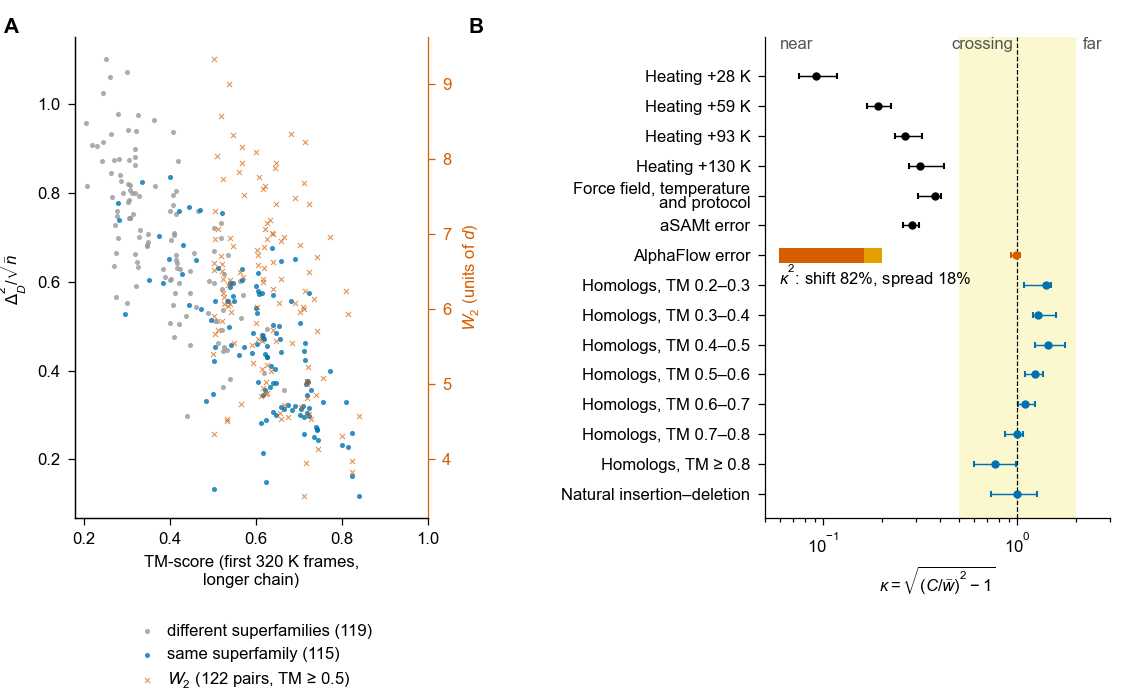
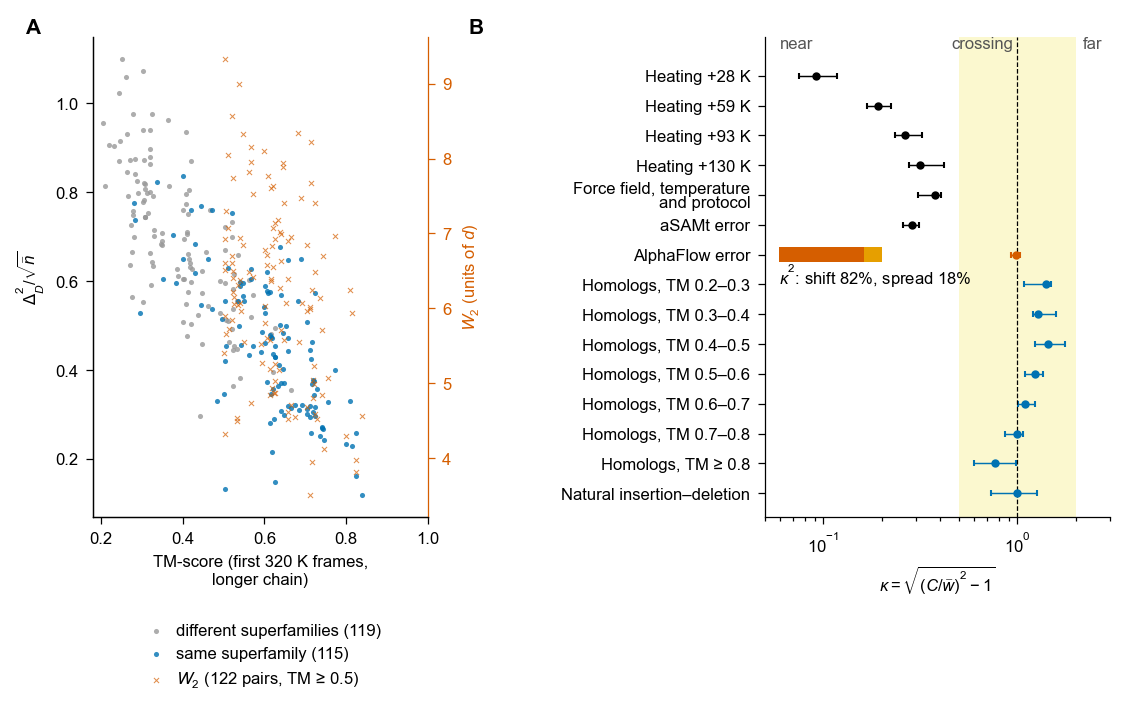
Fig 4 redrawn with more margin (y-label and legend touched the edge; values unchanged); S1 Table percentage intervals with % on both bounds; PROVENANCE, MANIFEST

diff --git a/code/make_s1.py b/code/make_s1.py
@@ -54,8 +54,8 @@ def added():
 L_DC, L_SC, L_D, L_BD = 'decision criterion', 'sanity check', 'descriptive', 'by definition'
 PRED = [  # record, analysis, prediction, label, outcome, where reported
  ('round17_chaining (18 Oct 00:20 UTC)', 'Chaining test, 150 two-domain chains', '1 − TM-score normalized by the shorter chain violates the triangle inequality in > 80% of part–whole triples; D_TM with fixed d₀ and D_TM/√L̄ near 0.', L_DC, 'Held: 100% vs 0% and 0%.', 'R2, Fig 2B'),
- ('round17_chaining', 'Chaining test', 'Average linkage merges different folds under 1 − TM-score (shorter chain) but mostly not under D_TM/√L̄; single linkage merges under both.', L_DC, 'Held: average linkage 100% vs 15% [10, 21]; single linkage merged under both (100% and 78%), as predicted.', 'R2, Fig 2B'),
- ('round29_review_math (18 Oct 08:40 UTC)', 'Chaining test, fixed d₀', 'D_TM/√L̄ with a d₀ common to each triple: no violations, average-linkage chaining as for the d₀(L̄) version (about 15%).', L_DC, 'Held: 0% and 15.3% [10.0, 21.3].', 'R2, Fig 2B'),
+ ('round17_chaining', 'Chaining test', 'Average linkage merges different folds under 1 − TM-score (shorter chain) but mostly not under D_TM/√L̄; single linkage merges under both.', L_DC, 'Held: average linkage 100% vs 15% [10%, 21%]; single linkage merged under both (100% and 78%), as predicted.', 'R2, Fig 2B'),
+ ('round29_review_math (18 Oct 08:40 UTC)', 'Chaining test, fixed d₀', 'D_TM/√L̄ with a d₀ common to each triple: no violations, average-linkage chaining as for the d₀(L̄) version (about 15%).', L_DC, 'Held: 0% and 15.3% [10.0%, 21.3%].', 'R2, Fig 2B'),
  ('round29_review_math', 'Chaining test, linear form', 'Linear 1 − S/L̄ violates the triangle inequality and chains more than the square-root form.', L_DC, 'Partly: violations 66.7% (held); chaining 9.3% (not held).', 'R2, Fig 2B'),
  ('round36 §0 (full text in record 19 Oct 14:56 UTC)', 'First session 0.0', 'Branch-and-bound and heuristic agree on test pairs.', L_SC, 'Passed (BnB 10/10).', 'S2 Text'),
  ('round36 §0', 'First session 0.1 (truncated chains)', 'Unshared part of full-versus-truncated minus full-versus-full comparisons equal to 0.75 Σ s² over the removed bonds within 2% in every domain, and median shared-part Δ²/√n within the replicate band.', L_DC, 'Not held (relative errors −6% to −107%; terminal flexibility).', 'S2 Text'),
@@ -77,7 +77,7 @@ PRED = [  # record, analysis, prediction, label, outcome, where reported
  ('round36 7b (full text in record 18 Oct 18:58 UTC)', 'Standard metrics on public AlphaFlow-MD samples, prediction 1', 'Energy distance calls every controlled perturbation far (≥ 95%).', L_DC, 'Not held: inflation 0.93, truncation 0.62 and 0.70 (others 0.99–1.00).', 'not discussed'),
  ('round36 7b', '7b, predictions 2 and 3', 'RMWD calls shrinkage and truncation far (≥ 70%); contact Jaccard calls mixing far (≥ 90%).', L_DC, 'Held: 0.81–0.99; 1.00.', 'not discussed'),
  ('round36 7c (full text in record 18 Oct 18:58 UTC)', 'Model error P2 (primary)', 'Heating zone in which the superfamily median of the aSAMt mean-shift error falls.', L_DC, 'Censored zone "≥ +59 K".', 'R6, Fig 5A'),
- ('round36 7c', 'Model error, secondary 1', 'Error above replicate noise in at least 70% of domains.', L_DC, 'Held narrowly: 72.7% (interval [61.5, 83.3] from an added check).', 'R6'),
+ ('round36 7c', 'Model error, secondary 1', 'Error above replicate noise in at least 70% of domains.', L_DC, 'Held narrowly: 72.7% (interval [61.5%, 83.3%] from an added check).', 'R6'),
  ('round36 7c; edit-distance version in round36_amend_P2_D2 (20 Oct 11:25 UTC)', 'Model error, secondaries 2 and 3', 'AlphaFlow mean shift exceeds the force-field threshold; position of the aSAMt error in the force-field bracket.', L_DC, 'Held (0.0843 > 0.0199); "outside the bracket" (p = −0.091).', 'not discussed'),
  ('round36 7c', 'Direction of the error (with round39 E5)', 'Cosine and profile correlation judged against ceiling and replicate null.', L_DC, 'Mean shift: different direction (0.25); profile: same direction at the highest temperature, different at 379 K.', 'R6, Fig 5B'),
  ('round36 7h (20 Oct 13:36 UTC)', 'Thermophile replication P1′-1', 'U2 (Q ≥ 0.70) one-sided 97.5% upper bound < 0.', L_DC, 'Held: −0.213 (upper bound −0.083).', 'R7, Fig 6'),
@@ -106,7 +106,7 @@ PRED = [  # record, analysis, prediction, label, outcome, where reported
  ('round41', 'g6 synthetic sequences', 'No violations for 1-Lipschitz gap costs (i)–(iii) (0 of 3,000 inequalities); violations expected for the controls (iv) 2|a| and (v) DTW, without refuting the lemma if absent.', L_DC, 'Held for (i)–(iii); the controls also had no violations under random edits.', 'S1 Fig (adversarial version)'),
  ('round41 g6_adv (21 Oct 09:25 UTC; added after g6)', 'g6 adversarial triples', '(i)–(iii) no violations; (iv) violations on generator A; (v) violations on generator B.', L_DC, 'Held: 0; 21.1% and 22.7%; 33.0% (65 undecided equalities in (iii) A).', 'R1, S1 Fig'),
  ('round42 (21 Oct 09:27 UTC)', 'Hinge-type test', 'Withdrawn before running (premise contradicted by a decomposition of explanatory variables).', '—', 'Withdrawn.', 'not discussed'),
- ('round43 (22 Oct 08:54 UTC)', 'Post hoc sensitivities s1, s3, s4', 's1: if a cell changes regime under length matching or Kendall τ < 0.9, show both versions; s3: if C-2 and its intersection gate hold for all four network models, C-2 is not tied to the parameters; s4: interval of secondary 1, verdict unchanged.', L_D, 's1: no regime changed in the 13 cells with size-matched units, τ = 0.91 over 12 (matched version in S2 Table); s3: effect in all four (C-2 0.18–0.19); s4: [61.5, 83.3], includes 0.70.', 'R4, R6, R8, S2 Table'),
+ ('round43 (22 Oct 08:54 UTC)', 'Post hoc sensitivities s1, s3, s4', 's1: if a cell changes regime under length matching or Kendall τ < 0.9, show both versions; s3: if C-2 and its intersection gate hold for all four network models, C-2 is not tied to the parameters; s4: interval of secondary 1, verdict unchanged.', L_D, 's1: no regime changed in the 13 cells with size-matched units, τ = 0.91 over 12 (matched version in S2 Table); s3: effect in all four (C-2 0.18–0.19); s4: [61.5%, 83.3%], includes 70%.', 'R4, R6, R8, S2 Table'),
  ('addendum (28 Oct 04:47 UTC)', 'r44_inv', 'Reduced/original ratio of superfamily medians in [0.9, 1.1] with 95% interval including 1, at +59 and +93 K, for 3 vs 5 replicates and 50 vs 100 frames.', L_DC, 'Replicate axis not met (+93 K 0.87 [0.45, 1.22]); frame axis met.', 'R3, Table 2'),
  ('addendum', 'r44_corr', 'P1: TM-align contains π̄ pairs more than sequence alignments; P2: TM-align C-1, C-2 lower bounds > 0; P3: sequence alignments lower bounds > 0 with C-1 below π̄.', L_DC, 'P1 held; P2 held; P3 not held (C-1 below π̄ held).', 'R8, Table 3'),
  ('addendum2 (28 Oct 05:56 UTC)', 'r44_gp', 'Effect remains without bonds next to Gly/Pro and with Gly/Pro fractions as covariates (lower bounds > 0, more than half of C-1).', L_DC, 'Held.', 'R8, Table 3'),
@@ -117,7 +117,7 @@ PRED = [  # record, analysis, prediction, label, outcome, where reported
  ('addendum4', 'r44_tmmean', 'Reading rule for the share of the C-1 difference recovered by aligning mean points.', L_D, 'Share 0.58: "both" (alignment method and structures aligned).', 'R8'),
  ('addendum5 (28 Oct 08:53 UTC)', 'r44_w2gap', 'PW1: partial Spearman(W₂, Δ²_D | w̄) ≥ 0.8; PW2: ρ(W₂, w̄) > ρ(Δ²_D, w̄).', L_DC, 'Held (0.95); held (0.73 > 0.13).', 'R4'),
  ('addendum5 (+fix1 08:59 UTC)', 'r44_p1comp', 'PC1: adjusted U2 upper bound < 0; PC2: |adjusted − primary| < 0.05.', L_DC, 'Held (−0.20, upper bound −0.11); held.', 'R7'),
- ('addendum6 (28 Oct 11:50 UTC)', 'r44_redsame', 'PR1: upper bound of the reduced computation\'s share of the compression < 0.1; PR2 (descriptive prediction): overestimate of d between ensembles at least the mean within-ensemble overestimate.', L_DC, 'PR1 not held: 4% [−6, 36]; PR2 not held: 6.7 × 10⁻⁴ between, 1.3 × 10⁻³ within.', 'R5'),
+ ('addendum6 (28 Oct 11:50 UTC)', 'r44_redsame', 'PR1: upper bound of the reduced computation\'s share of the compression < 0.1; PR2 (descriptive prediction): overestimate of d between ensembles at least the mean within-ensemble overestimate.', L_DC, 'PR1 not held: 4% [−6%, 36%]; PR2 not held: 6.7 × 10⁻⁴ between, 1.3 × 10⁻³ within.', 'R5'),
  ('addendum7 (28 Oct 15:39 UTC)', 'r45_f1', '(a) C-2 lower bound > 0 with bond-direction profiles → the association is present in bond-direction fluctuations after the network-model control; (b) C-2 lower bound ≤ 0 and paired difference (whole frame − bond direction) lower bound > 0 → much of it lies outside bond directions; (c) otherwise unresolved.', L_DC, '(a): C-2 0.168 [0.071, 0.269]; association not confined to rotations about the bond.', 'R8, Fig 7'),
  ('addendum8 (29 Oct 11:15 UTC)', 'r45_mpstart', 'Descriptive (no decision rule).', L_D, 'Six ensembles × nine starts: at most 8 × 10⁻¹¹ in d.', 'Methods'),
  ('addendum9 (29 Oct 16:34 UTC; fix1 17:19 UTC)', 'r46_align', 'For A, B0 and B2: C-1 and C-2 lower bounds > 0 → holds; C-1 only → partly.', L_DC, 'Holds for A, B0 and B2.', 'R8, S3 Table'),

diff --git a/code/make_figs.py b/code/make_figs.py
@@ -130,8 +130,8 @@ def fig4():
         if not D or any(D.get(k) is None for k in ('C', 'B_P', 'B_Q')): continue
         d2 = 2 * D['C'] - D['B_P'] - D['B_Q']; pts.append((b['TM'], d2 / np.sqrt(b['nbar']), b.get('W2'), b['Ha'] == b['Hb']))
     P = pd.DataFrame(pts, columns=['TM', 'd2n', 'W2', 'same'])
-    fig = plt.figure(figsize=(7.5, 4.6))
-    ax = axin(fig, 0.5, 1.15, 2.35, 3.2); panel(ax, 'A', x=-0.2, y=1.0)
+    fig = plt.figure(figsize=(7.5, 4.75))   # 4.6 → 4.75 and A moved right: the y-label and the legend touched the edge
+    ax = axin(fig, 0.62, 1.3, 2.23, 3.2); panel(ax, 'A', x=-0.2, y=1.0)
     for same, col, lab in [(False, OI['grey'], 'different superfamilies'), (True, OI['blue'], 'same superfamily')]:
         s = P[P.same == same]; ax.scatter(s.TM, s.d2n, s=6, color=col, lw=0, alpha=0.8, label=f'{lab} ({len(s)})')
     ax.set_xlabel('TM-score (first 320 K frames,\nlonger chain)'); ax.set_ylabel(r'$\Delta^2_D/\sqrt{\bar n}$'); ax.set_xlim(0.18, 1.0)
@@ -140,7 +140,7 @@ def fig4():
     h1, l1 = ax.get_legend_handles_labels(); h2, l2 = ax2.get_legend_handles_labels(); ax.legend(h1 + h2, l1 + l2, frameon=False, loc='upper center', bbox_to_anchor=(0.5, -0.19), handletextpad=0.2)
     # B: kappa per cell
     s1 = J('r43_sens.json')['s1']['cells']; order = [k for k in CELL_EN if k in s1]
-    ax = axin(fig, 5.1, 1.15, 2.3, 3.2); panel(ax, 'B', x=-0.86, y=1.0); y = np.arange(len(order))[::-1]; kap = {}
+    ax = axin(fig, 5.1, 1.3, 2.3, 3.2); panel(ax, 'B', x=-0.86, y=1.0); y = np.arange(len(order))[::-1]; kap = {}
     for yi, k in zip(y, order):
         e, lo, hi = ci(s1[k]['ratio']); kap[CELL_EN[k].replace('\n', ' ')] = (e, lo, hi)
         col = OI['red'] if 'AlphaFlow' in CELL_EN[k] else OI['blue'] if 'Homolog' in CELL_EN[k] or 'insertion' in CELL_EN[k] else OI['black']

diff --git a/docs/PROVENANCE.md b/docs/PROVENANCE.md
@@ -91,8 +91,8 @@ The md5 of every file in the repository is in `MANIFEST.md5` (`md5sum -c MANIFES
 | `code/ladder_model_error_folded.py` | `0c2d4e91bfcd06eca6c07152d0e9debb` | U |  |
 | `code/ladder_temp_single.py` | `961d2f27c0406c9667fabb03b2d5b142` | U |  |
 | `code/ladder_temp_single_v2.py` | `6420c51e5aeb3a69c51aafa1711a261d` | U |  |
-| `code/make_figs.py` | `efc8f74c76b502c6c277947c85e39317` | U | figure script, last run on Colab 2026-11-01 (Arial, text 8 pt or larger); reads stored results only; in no record |
-| `code/make_s1.py` | `473d68ed32638fc1269dc24ffd7c42f8` | U | S1 Table script, run on Colab 2026-10-31; in no record |
+| `code/make_figs.py` | `40a77f390f7e3f58ecc78651ec03cea8` | U | figure script, last run on Colab 2026-11-01 (Arial, text 8 pt or larger; Fig 4 redrawn 16:57 UTC with more margin, values unchanged); reads stored results only; in no record |
+| `code/make_s1.py` | `655ee8ce86dd400383a5039e66311e2f` | U | S1 Table script, run on Colab 2026-10-31 and again 2026-11-01 16:57 UTC (percentage intervals written with % on both bounds); in no record |
 | `code/make_tables.py` | `ba796a20e7081c2eb54c238d705d4555` | U | S2 and S3 Table script, run on Colab 2026-10-31; in no record |
 | `code/mdcath_5T_extract.py` | `a77709c6edfef1e21207070b2c959b69` | U |  |
 | `code/mdcath_5T_folded.py` | `6c65c299322b4cdbf6ae447c51481fa4` | U |  |
